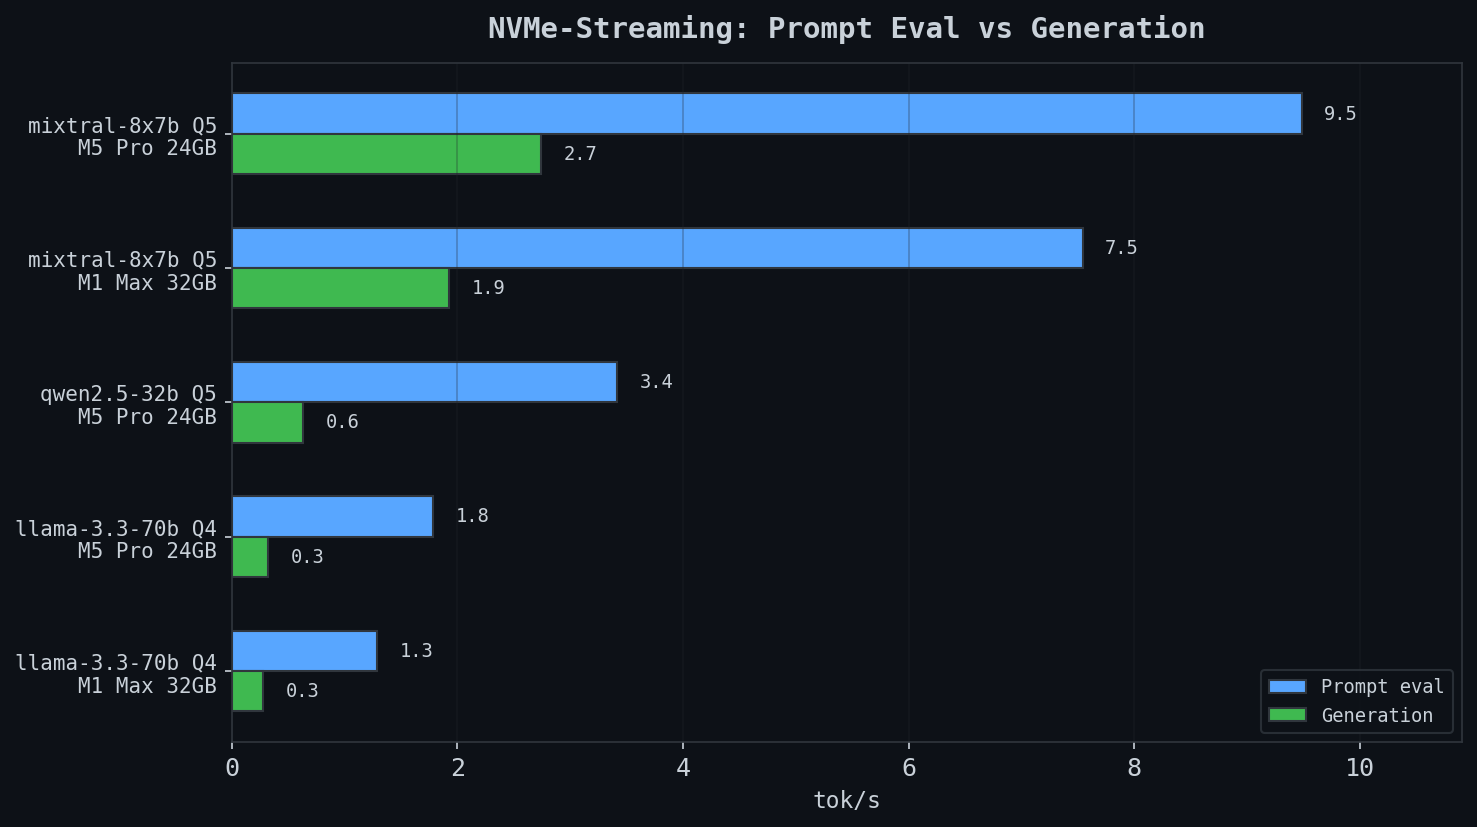
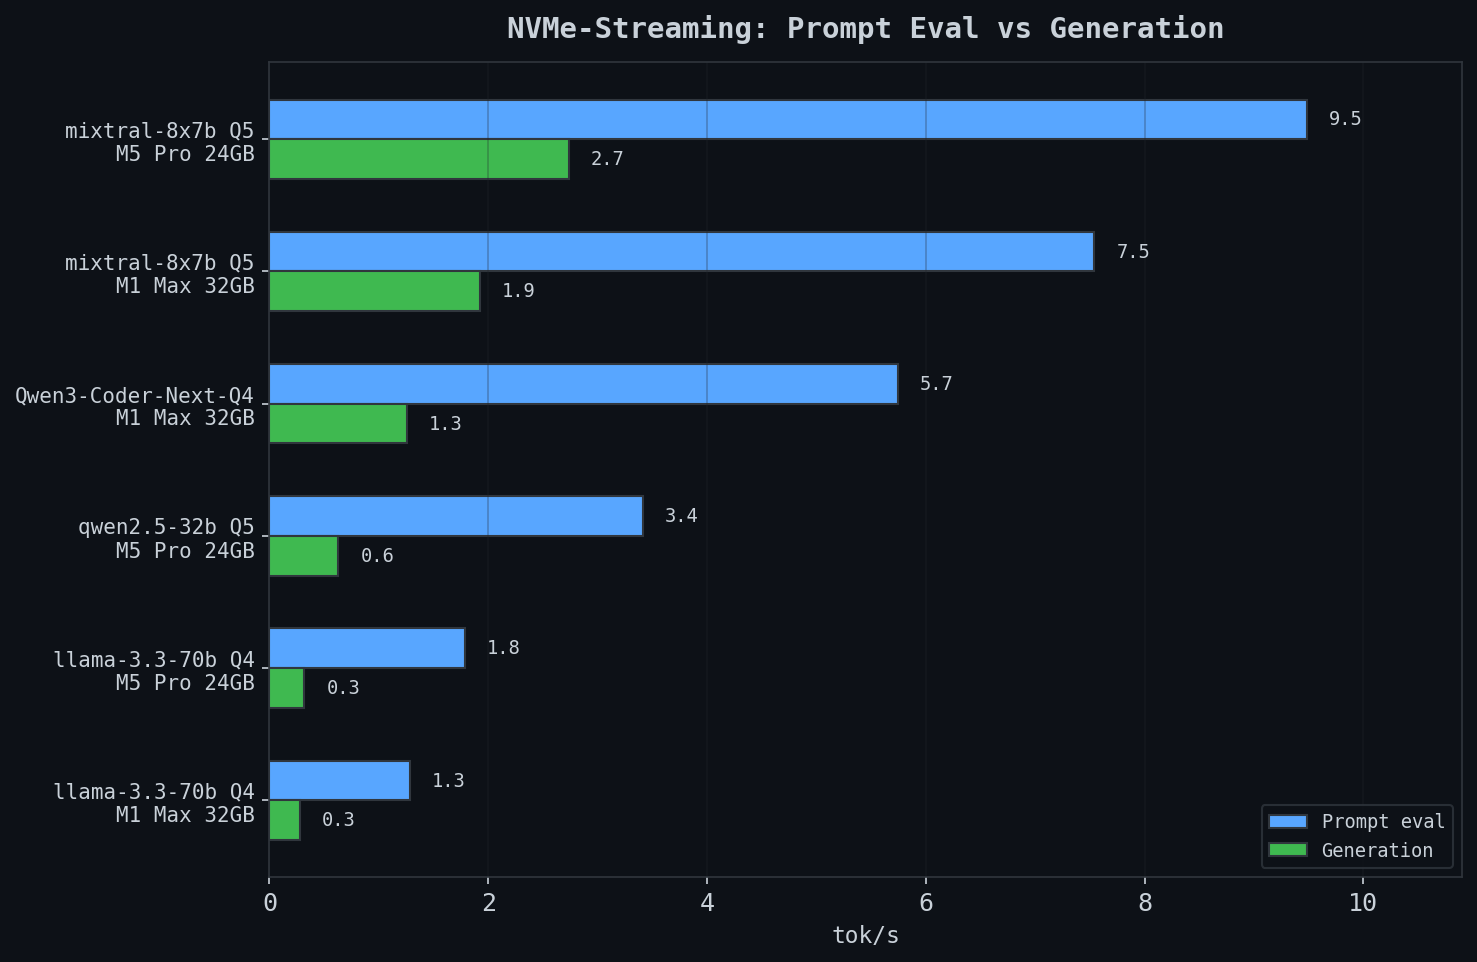
bench: Qwen3-Coder-Next 80B MoE (512 experts) — 1.3 tok/s on 32 GB
45.2 GB model running at 1.3 tok/s on M1 Max 32GB via expert-streaming.
512 experts with 10 active (2% activation ratio). Neuron cache achieves
96.7% hit rate on first run with no co-activation data — I/O stalls are
2-3ms per token (effectively zero).

Pool auto-scaled to 18 slots (7.9 GB). All 49 layers on Metal GPU with
only 1.6 GB non-expert tensors resident.

diff --git a/RESEARCH_INTEGRATION_PLAN.md b/RESEARCH_INTEGRATION_PLAN.md
@@ -799,9 +799,18 @@ The iobench proves the raw I/O path achieves 6.8 GB/s. The 300 MB/s effective th
 - **Changes 8-10** — SUPERSEDED by expert-streaming
 - **Change 11** (n_batch tuning) — DONE (n_batch=1 cap removed in earlier session, Mixtral prompt eval 4.5s → 1.2s)
 
-**Pending benchmark:** Qwen 2.5 32B Q5_K_M (21.7 GB) on M1 Max 32 GB. Should trigger
-keep-resident or light NVMe spill. Test command:
-`cargo run --release -- bench --max-tokens 30 --context 2048 ./test-models/qwen2.5-32b-instruct-q5_k_m.gguf`
+**Pending benchmarks (2026-03-21):**
+
+1. **Qwen3-Coder-Next 80B-A3B Q4_K_M** (~45.2 GB) — MoE with 512 experts, 10 active
+   (2% activation ratio). Should trigger expert-streaming. Extreme sparsity should give
+   very high neuron cache hit rate. Key test of expert-streaming on high-expert-count models.
+   `cargo run --release -- bench --max-tokens 10 --context 512 ./test-models/Qwen3-Coder-Next-Q4_K_M.gguf`
+
+2. **Qwen 2.5 Coder 32B Q8_0** (~32.4 GB) — Dense, most popular coding model at max
+   quality quant. Q8 exceeds 32 GB RAM. Should trigger dense FFN-streaming.
+   `cargo run --release -- bench --max-tokens 10 --context 512 ./test-models/qwen2.5-coder-32b-instruct-q8_0.gguf`
+
+   **If either crashes, start with `--max-tokens 3` and verify placement/mode selection first.**
 - **Change 12** (warm cache) — planned
 - **Change 13** (dense FFN-streaming) — DONE: 0.20 tok/s (6.7x over FullStreaming 0.03). Bottleneck is per-layer I/O stalls (~50ms × 80 layers)
 - **Change 14** (pool/cache tuning) — DONE: unified MemoryBudget, dynamic pool slots, scaled prefetch lookahead

diff --git a/benchmarks/README.md b/benchmarks/README.md
@@ -232,3 +232,5 @@ Both expert-streaming and dense FFN-streaming share the same core architecture:
 - This correctly enables keep-resident for Mixtral (26.3 GB < 28 GB) while
   forcing streaming for Llama 70B (33 + 9.8 GB >> 28 GB).
 | 2026-03-21 | qwen2.5-32b-instruct-q5_k_m Q5K | Apple M1 Max 32GB | 21.7 GB | 0.0 GB | 0.0 GB | — | 6.6 | — |
+| 2026-03-21 | Qwen3-Coder-Next-Q4_K_M Q4K | Apple M1 Max 32GB | 1.6 GB | 0.0 GB | 43.6 GB | — | 1.3 | — |
+| 2026-03-21 | Qwen3-Coder-Next-Q4_K_M Q4K | Apple M1 Max 32GB | 1.6 GB | 0.0 GB | 43.6 GB | — | 1.0 | — |
